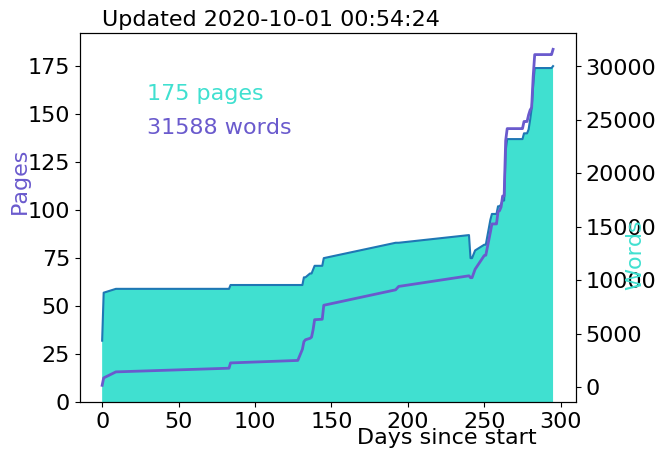
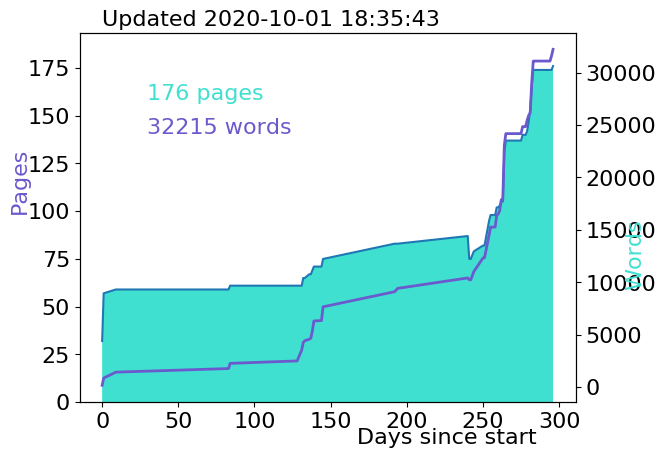
almost done with theory lalalala

diff --git a/Chapters/theory.tex b/Chapters/theory.tex
@@ -109,14 +109,14 @@ In addition to the gauge symmetry that necessitates the existence of the W and Z
 \subsection{Shortcomings}
 There are many reasons to believe the Standard Model does not give a full picture of fundamental physics, despite its robustness against experimental examination. Perhaps the most obvious hole is the lack of a description of gravity. General Relativity provides an extremely effective description of gravity at large scales, but no such description exists at quantum scales. Gravitational interactions become important at $M_P$, well beyond the reach of current experiments. Additionally, dark matter and neutrino masses have been observed experimentally, but have no explanation in the Standard Model. 
 
-There are also several aesthetic features of the Standard Model that indicate something might be missing, but are not real problems with the theory. The hierarchy problem suggests that there should be another mass scale below the Planck scale to control the Higgs boson mass. The experimentally measured mass is the sum of the bare mass that appears in the Lagrangian and any quantum corrections from interactions with other particles. Should there be no lower mass scale, those quantum corrections would need to be $10^{35}$ times larger than the Higgs mass. While this is possible, the idea of combining two very large numbers to result in exact, small number makes physicists very uncomfortable and indicates that there might be something that is not understood.
+There are also several aesthetic features of the Standard Model that indicate something might be missing, but are not real problems with the theory. The hierarchy problem suggests that there should be another mass scale below the Planck scale to control the Higgs boson mass. The experimentally measured mass is the sum of the bare mass that appears in the Lagrangian and any quantum corrections from interactions with other particles. Should there be no lower mass scale, those quantum corrections would need to be $10^{35}$ times larger than the Higgs mass. While this is possible, the idea of combining two very large numbers to result in exact small number makes physicists uncomfortable and indicates that there might be something that is not understood, and many \emph{natural} theories that avoid this fine tuning have been proposed.
 
 \todo{force unification}
 
 
 \section{Supersymmetry}
 
-\acf{SUSY} is a theory proposed and developed in the 1970s \cite{susy-found-1,susy-found-2,susy-found-3} that provides solutions to many of the problems with the \ac{SM}. \ac{SUSY} adds a symmetry in addition to the ones already discussed: a symmetry between fermions and bosons whereby fermions can be changed to bosons and vice versa. 
+\acf{SUSY} is a theory proposed and developed in the 1970s \cite{susy-found-1,susy-found-2,susy-found-3} that provides solutions to many of the problems with the \ac{SM}. \ac{SUSY} adds a symmetry in addition to the ones already discussed: a symmetry between fermions and bosons. An additional dimension is added and rotations in this dimension change the spin of a particle by $\frac{1}{2}$, changing a fermion to a boson and vice versa. 
 
 In \ac{SUSY}, each \ac{SM} particle gets a \emph{superpartner} with all of the same quantum numbers except for spin. The bosonic superpartners of fermions are \emph{sfermions} and the fermionic partners of the \ac{SM} bosons have ``-ino'' appended to their names. For example, the superpartner of a tau $\tau$ lepton is a stau $\stau$ and the superpartner of a gluon $g$ is the gluino $\tilde{g}$. A \emph{supermultiplet} refers to the pair of the \ac{SM} particle and its superpartner.
 
@@ -124,10 +124,32 @@ Should \ac{SUSY} exist, we already know that it must be broken. If the selectron
 
 \subsection{Minimal Supersymmetric Standard Model}
 
-\todo{particle content}
-\todo{define LSP, NSLP}
-\todo{R-parity}
-\todo{susy breaking}
+The \acf{MSSM} is the simplest self-consistent Supersymmetric extension to the Standard Model. Each \ac{SM} particle gets a \ac{SUSY} partner, except for the Higgs which gets two partners to account for the different masses of the sparticles. One of the Higgs doublets couples to up-type quarks, and the other to down-type quarks and charged leptons. 
+
+After electroweak symmetry breaking, there are Higgs states: $A, H, H^{+}, H^{-}, h$. The lightest state $h$, is assumed to be the already-discovered \ac{SM} Higgs. The others are called \emph{higgsinos}: $A$ and $H$ are neutral and $H^{+}$ and $H^{-}$ are charged. The higgsinos mix with the electroweakinos (the superpartners of the electroweak gauge bosons). This results in the electrically charged mass-eigenstates called \emph{charginos} and the neutral ones \emph{neutralinos}. The \ac{MSSM} contains four neutralinos ordered by mass $\tilde{\chi}^{0}_{1}, \tilde{\chi}^{0}_{2}, \tilde{\chi}^{0}_{3}, \tilde{\chi}^{0}_{4}$ and two charginos ordered by mass $\tilde{\chi}^{\pm}_{1}, \tilde{\chi}^{\pm}_{1}$. 
+
+Each \ac{SM} fermion gets two spin-0 partners called \emph{sleptons}, one right-handed $\tilde{\ell}_{R}$ and one left-handed $\tilde{\ell}_{L}$. The left- and right-handed states mix to form mass eigenstates $\tilde{\ell}_{1}$ and $\tilde{\ell}_{2}$, ordered by mass. \emph{Squarks}, the super partners of quarks, follow the same pattern as the sleptons, where $\tilde{q}_{R}$ and $\tilde{q}_{L}$ mix to form $\tilde{q}_{1}$ and $\tilde{q}_{2}$. Each left-handed neutrino has a \emph{sneutrino} superpartner with spin-0 $\tilde{\nu}_{L}$.
+
+There are many new interactions between particles and sparticles introduced by the \ac{MSSM}. The general rule is that for any \ac{SM} interaction, two of the particles can be replaced by their sparticles. In addition, there are several interactions that are introduced in the \ac{MSSM} that violate the $B$ and $L$ conservation in the \ac{SM}. Specifically, they violate $B-L$ symmetry, which is never violated in the \ac{SM}. To remain consistent with the observed behavior of the \ac{SM}, a new conserved quantity is introduced from a $U(1)$ symmetry: $R$-parity. It is defined as
+\begin{equation}
+\text{R-parity} = (-1)^{2s+ 3B+L}
+\end{equation}
+where $s$ is spin, $B$ is baryon number, and $L$ is lepton number. All \ac{SM} particles have R-parity = +1 and \ac{SUSY} particles have -1. This results in a symmetry of the number of sparticles minus the number of anti-sparticles. Consequently, sparticles must be produced in pairs, and massive sparticles decay through a chain of lighter sparticles and \ac{SM} particles. A given sparticle must always decay to an odd number of sparticles.
+
+
+\subsubsection{Relationship to Standard Model Problems}
+
+The \ac{MSSM} has 120 free parameters that dictate the masses and interaction strengths of the sparticles. Different assumptions about the \ac{SUSY} breaking mechanism and the allowed couplings change the values of these parameters. The LSP is the lightest Supersymmetric particle in a model, and the NLSP is the next-to-lightest Supersymmetric particle. If R-parity is conserved, the \ac{LSP} is stable because it cannot decay to \ac{SM} particles. If this particle is also electrically neutral, it is an excellent dark matter candidate.
+
+\ac{SUSY} solves other problems with the \ac{SM} as well. Many physicists believe that the electromagnetic, strong, and weak forces are low energy manifestations of a unified force at high energy, just like the unification of the electromagnetic and weak forces at the GeV scale. When one scales \ac{SM} couplings to high energies, there is no point where all three forces have the same coupling, seen in \todo{figure}. Should \ac{SUSY} exist at the TeV scale, the couplings would converge. Additionally, the sparticles' interactions with the Higgs cancel out those of the \ac{SM} particles and naturally cancel the large corrections to the Higgs mass. This relies on the assumption that the mass of the stop quark is similar to that of the top quark to leave a small remaining correction, and requires stop masses at the TeV scale.
+
+\todo{maybe feynman diagram of Higgs w susy}
+
+the difference in the masses of the \ac{SUSY} particles 
+
+
+\todo{learn more about slepton mixing} 
+
 
 
 \subsection{GMSB}

diff --git a/horyn_thesis_chicago.tex b/horyn_thesis_chicago.tex
@@ -111,7 +111,7 @@ A search for long-lived particles decaying into displaced leptons with large imp
 \cleardoublepage 
 
 %----------------------------------------------------------------------------------------
-\part{Experiment}
+\part{The Experiment}
 
 \include{Chapters/Accelerators}
 \include{Chapters/ATLAS}

diff --git a/scripts/pages.md b/scripts/pages.md
@@ -516,3 +516,5 @@
 + [2020-10-01-00h17m57s] 174 31369
 + [2020-10-01-00h30m14s] 175 31484
 + [2020-10-01-00h54m24s] 175 31588
++ [2020-10-01-00h58m46s] 174 31589
++ [2020-10-01-18h35m43s] 176 32215
